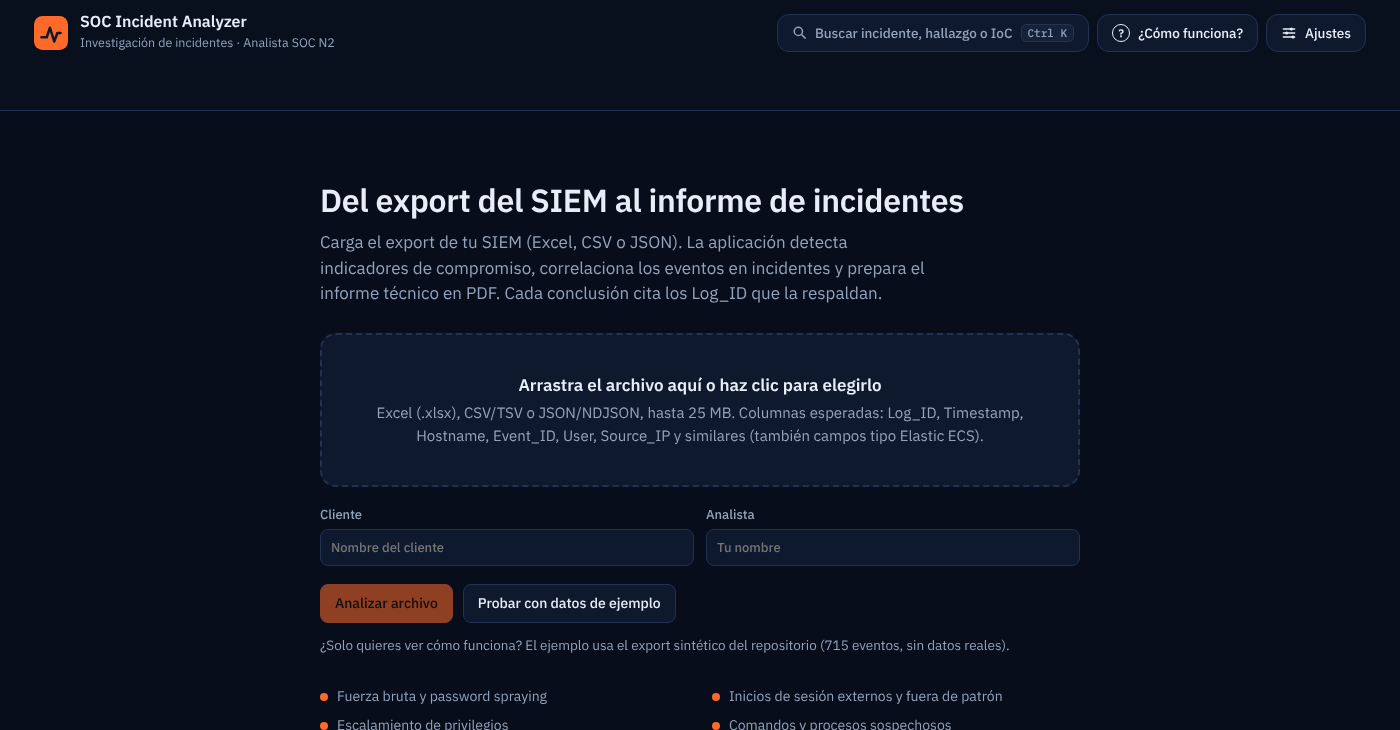
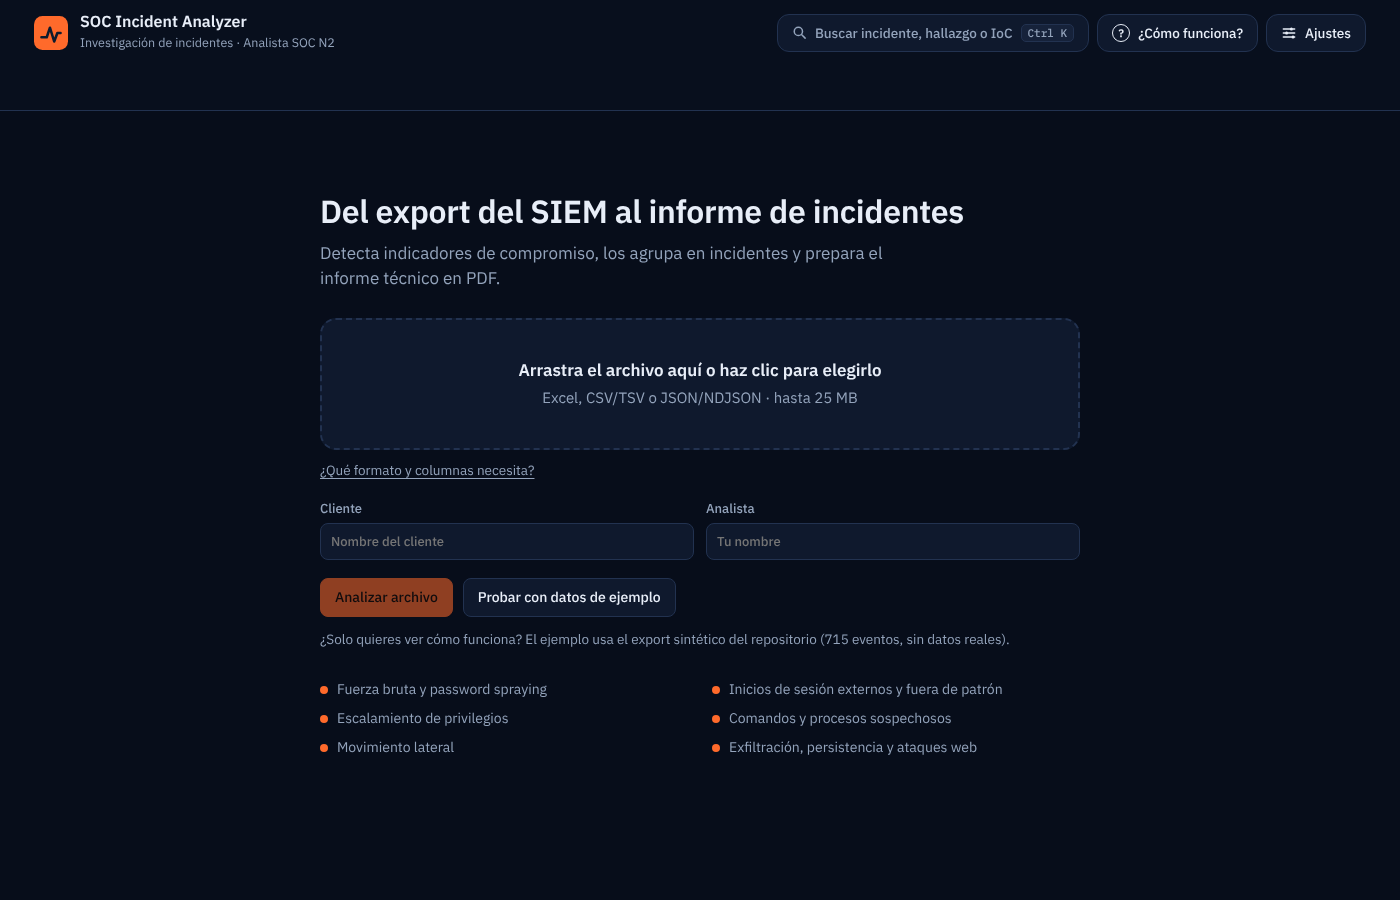
Add files via upload

diff --git a/frontend/app.js b/frontend/app.js
@@ -128,12 +128,13 @@ window.addEventListener("hashchange", render);
 function landing() {
   return `<section class="landing">
     <h1>Del export del SIEM al informe de incidentes</h1>
-    <p class="lead">Carga el export de tu SIEM (Excel, CSV o JSON). La aplicación detecta indicadores de compromiso, correlaciona los eventos en incidentes y prepara el informe técnico en PDF. Cada conclusión cita los Log_ID que la respaldan.</p>
+    <p class="lead">Detecta indicadores de compromiso, los agrupa en incidentes y prepara el informe técnico en PDF.</p>
     <div class="drop" id="drop" tabindex="0" role="button" aria-label="Seleccionar archivo de eventos">
       <strong id="dropTitle">Arrastra el archivo aquí o haz clic para elegirlo</strong>
-      <span>Excel (.xlsx), CSV/TSV o JSON/NDJSON, hasta 25 MB. Columnas esperadas: Log_ID, Timestamp, Hostname, Event_ID, User, Source_IP y similares (también campos tipo Elastic ECS).</span>
+      <span>Excel, CSV/TSV o JSON/NDJSON · hasta 25 MB</span>
       <input type="file" id="file" accept=".xlsx,.xlsm,.csv,.tsv,.txt,.log,.json,.jsonl,.ndjson" hidden>
     </div>
+    <button class="linkbtn" id="fmtHelp" type="button">¿Qué formato y columnas necesita?</button>
     <div class="fields">
       <label class="f">Cliente<input type="text" id="client" placeholder="Nombre del cliente" autocomplete="off"></label>
       <label class="f">Analista<input type="text" id="analyst" placeholder="Tu nombre" autocomplete="off"></label>
@@ -162,6 +163,7 @@ function bindLanding() {
   ["dragleave", "drop"].forEach((ev) => drop.addEventListener(ev, (e) => { e.preventDefault(); drop.classList.remove("over"); }));
   drop.addEventListener("drop", (e) => pick(e.dataTransfer.files[0]));
   go.onclick = () => upload(file, $("#client").value, $("#analyst").value);
+  $("#fmtHelp").onclick = showHow;
   $("#sample").onclick = () => useSample($("#client").value, $("#analyst").value);
 }
 
@@ -616,6 +618,14 @@ function applyMotion(m) {
   if (m === "reduced") root.setAttribute("data-motion", "reduced"); else root.removeAttribute("data-motion");
   $("#motionBtn").textContent = "✦ Movimiento: " + (m === "reduced" ? "reducido" : "completo");
 }
+const showHow = () => openDialog("¿Cómo funciona?", `<div class="how"><ol>
+    <li><b>Carga</b> el export del SIEM en Excel (.xlsx), CSV/TSV o JSON/NDJSON, de hasta 25 MB. Se detectan el formato y las columnas aunque cambien de nombre (ver «Columnas esperadas» más abajo).</li>
+    <li><b>Reglas deterministas</b> buscan fuerza bruta, inicios de sesión externos, escalamiento, comandos sospechosos, movimiento lateral, exfiltración, persistencia y ataques web. Cada hallazgo cita los Log_ID que lo prueban.</li>
+    <li><b>Correlación</b>: los hallazgos se agrupan en incidentes solo si comparten IP externa o cuenta. Compartir un host o recurso queda como hipótesis de confianza baja.</li>
+    <li><b>IA</b> redacta explicaciones, impacto y plan de acción. No cambia la criticidad y se descarta cualquier Log_ID o IP que no esté en el archivo.</li>
+    <li><b>Informe PDF</b> con resumen ejecutivo, hallazgos, evidencia, criticidad, impacto, plan de acción y recomendaciones.</li></ol>
+    <h4>Columnas esperadas</h4><p>Solo son indispensables <span class="mono">Timestamp</span> y <span class="mono">Event_ID</span>. Se aprovechan también <span class="mono">Log_ID</span>, <span class="mono">Hostname</span>, <span class="mono">User</span>, <span class="mono">Source_IP</span>, <span class="mono">Destination</span>, <span class="mono">Process_CommandLine</span> y similares, con otros idiomas o mayúsculas, y los campos de Elastic ECS (<span class="mono">@timestamp</span>, <span class="mono">host.name</span>, <span class="mono">source.ip</span>…). Lo que falte queda vacío y se informa.</p>
+    <p class="muted">Cada conclusión cita los Log_ID que la respaldan. Atajos: Ctrl+K o / para buscar.</p></div>`);
 function initChrome() {
   let theme = pref.get("theme") || "auto", motion = pref.get("motion") || "full";
   applyTheme(theme); applyMotion(motion);
@@ -631,13 +641,7 @@ function initChrome() {
   });
   $("#themeBtn").onclick = () => { theme = { auto: "light", light: "dark", dark: "auto" }[theme]; pref.set("theme", theme); applyTheme(theme); };
   $("#motionBtn").onclick = () => { motion = motion === "full" ? "reduced" : "full"; pref.set("motion", motion); applyMotion(motion); };
-  $("#helpBtn").onclick = () => openDialog("¿Cómo funciona?", `<div class="how"><ol>
-    <li><b>Carga</b> el export del SIEM en Excel, CSV o JSON. Se detectan el formato y las columnas aunque cambien de nombre.</li>
-    <li><b>Reglas deterministas</b> buscan fuerza bruta, inicios de sesión externos, escalamiento, comandos sospechosos, movimiento lateral, exfiltración, persistencia y ataques web. Cada hallazgo cita los Log_ID que lo prueban.</li>
-    <li><b>Correlación</b>: los hallazgos se agrupan en incidentes solo si comparten IP externa o cuenta. Compartir un host o recurso queda como hipótesis de confianza baja.</li>
-    <li><b>IA</b> redacta explicaciones, impacto y plan de acción. No cambia la criticidad y se descarta cualquier Log_ID o IP que no esté en el archivo.</li>
-    <li><b>Informe PDF</b> con resumen ejecutivo, hallazgos, evidencia, criticidad, impacto, plan de acción y recomendaciones.</li></ol>
-    <p class="muted">Atajos: Ctrl+K o / para buscar.</p></div>`);
+  $("#helpBtn").onclick = showHow;
   $("#searchBtn").onclick = openPalette;
   addEventListener("keydown", (e) => {
     const typing = /INPUT|SELECT|TEXTAREA/.test(document.activeElement?.tagName || "");

diff --git a/frontend/styles.css b/frontend/styles.css
@@ -285,3 +285,5 @@ dialog.pal{max-width:640px;margin-top:12vh}
 .mx-cell a{color:inherit;font-weight:600;text-decoration:none}.mx-cell a:hover{text-decoration:underline}
 .mx-cell.Crítico{border-left-color:var(--crit)}.mx-cell.Alto{border-left-color:var(--alto)}.mx-cell.Medio{border-left-color:var(--med)}.mx-cell.Bajo{border-left-color:var(--bajo)}
 .mx-meta{display:flex;align-items:center;gap:8px;margin:6px 0 4px}
+
+.linkbtn{display:inline-block;margin-top:10px;background:none;border:0;padding:0;color:var(--muted);font-size:13.5px;text-decoration:underline;text-underline-offset:3px;cursor:pointer}.linkbtn:hover{color:var(--ink)}

diff --git a/tests/integration/test_sample_api.py b/tests/integration/test_sample_api.py
@@ -47,3 +47,12 @@ def test_ui_has_the_sample_button_and_one_settings_menu():
 def test_ui_pluralises_counts():
     js = (FRONT / "app.js").read_text(encoding="utf-8")
     assert "const plural =" in js and "hallazgo(s)" not in js
+
+
+def test_landing_is_short_and_the_details_live_in_the_help_dialog():
+    js = (FRONT / "app.js").read_text(encoding="utf-8")
+    landing = js[js.index("function landing()"):js.index("function bindLanding()")]
+    assert "hasta 25 MB" in landing and "Columnas esperadas" not in landing and "Elastic ECS" not in landing
+    how = js[js.index("const showHow"):js.index("function initChrome()")]
+    assert "Columnas esperadas" in how and "Timestamp" in how and "Event_ID" in how and "ECS" in how
+    assert '$("#helpBtn").onclick = showHow' in js and '$("#fmtHelp").onclick = showHow' in js

diff --git a/CHANGELOG.md b/CHANGELOG.md
@@ -16,6 +16,7 @@ Formato basado en [Keep a Changelog](https://keepachangelog.com/es-ES/1.1.0/) y 
 - Plurales corregidos en la interfaz («1 hallazgo», «1 evento»).
 - Capturas del README renovadas, con la pantalla de inicio y el rechazo de un archivo falso.
 - README: requisito explícito de Python 3.12.
+- Pantalla de inicio más limpia: título, zona de carga y «hasta 25 MB». El detalle de formatos y columnas esperadas pasa a «¿Cómo funciona?», con un enlace desde la zona de carga.
 - Títulos neutros: la pestaña Incidentes vuelve a llamarse «Incidentes» y la sección 3 del PDF, «Relación entre incidentes». Se quitan los restos del enunciado del reto.
 
 ## [1.1.0] - 2026-11-03

diff --git a/README.md b/README.md
@@ -172,7 +172,7 @@ Opcional. En la pestaña **Indicadores (IoC)**, el botón **Consultar reputació
 
 ```bash
 pip install --require-hashes -r requirements-dev.lock      # pytest, cobertura, bandit y pip-audit
-python -m pytest                                           # 263 pruebas
+python -m pytest                                           # 264 pruebas
 python -m pytest --cov=backend --cov-report=term-missing   # con cobertura (94 %)
 ```
 
